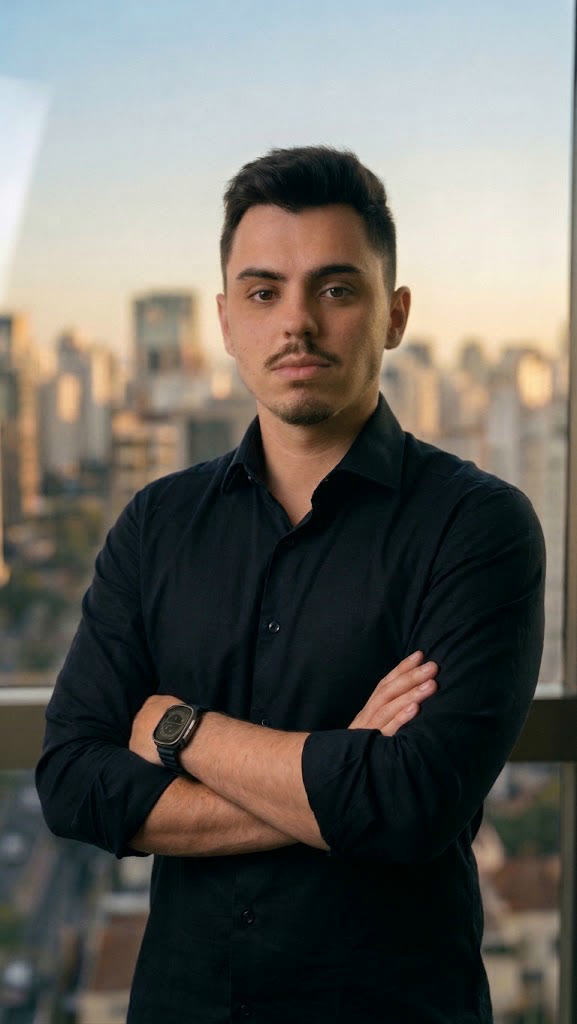
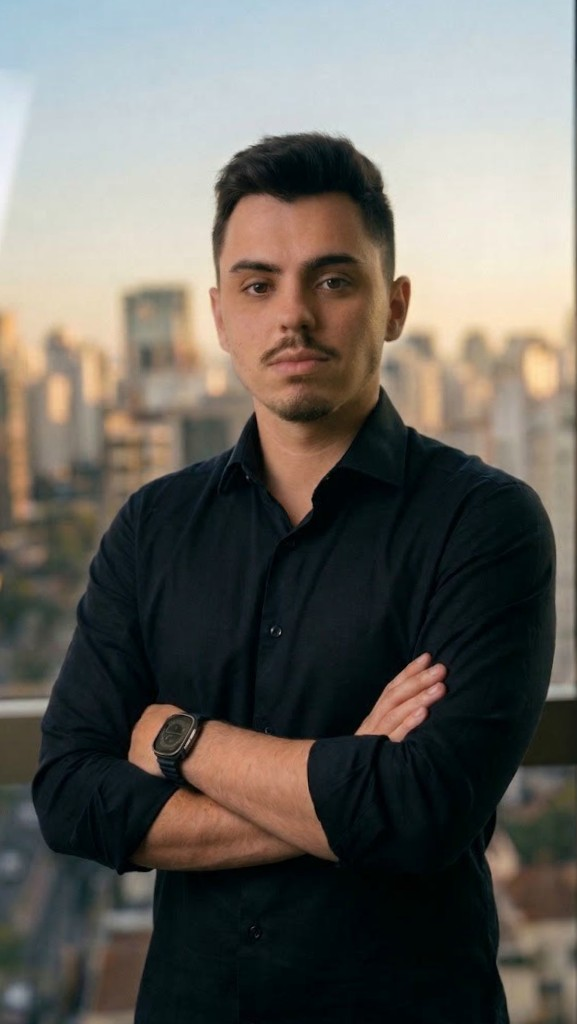
Endireita a foto do Sobre (estava ~1° inclinada)
A janela ao fundo inclinava 8 px a cada 400 px. A imagem foi girada
-1,15° e ampliada 3,6% para cobrir os cantos; a URL ganha ?v=20.

diff --git a/index.html b/index.html
@@ -9,7 +9,7 @@
   <link rel="icon" href="/favicon.svg" type="image/svg+xml" />
   <meta property="og:title" content="Davi Vinco, Solutions Architect Senior" />
   <meta property="og:description" content="Arquitetura de cloud, edge e segurança da informação para empresas." />
-  <meta property="og:image" content="https://davi.vinco.dev.br/images/davi-2026.jpg" />
+  <meta property="og:image" content="https://davi.vinco.dev.br/images/davi-2026.jpg?v=20" />
   <meta property="og:type" content="website" />
   <script>document.documentElement.classList.add("js")</script>
   <link rel="preconnect" href="https://fonts.googleapis.com" />
@@ -52,7 +52,7 @@
       <!-- Intro: a narrow column of short paragraphs beside the portrait -->
       <section class="intro chapter" id="sobre" data-ground="blue" aria-label="Sobre" data-i18n-attr="aria-label:aria.about">
         <figure class="portrait" data-reveal>
-          <img src="/images/davi-2026.jpg" width="577" height="1024" loading="lazy" decoding="async"
+          <img src="/images/davi-2026.jpg?v=20" width="577" height="1024" loading="lazy" decoding="async"
                alt="Davi Vinco de camisa preta e braços cruzados, em frente a uma janela com prédios da cidade ao entardecer"
                data-i18n-attr="alt:alt.portrait" />
         </figure>
